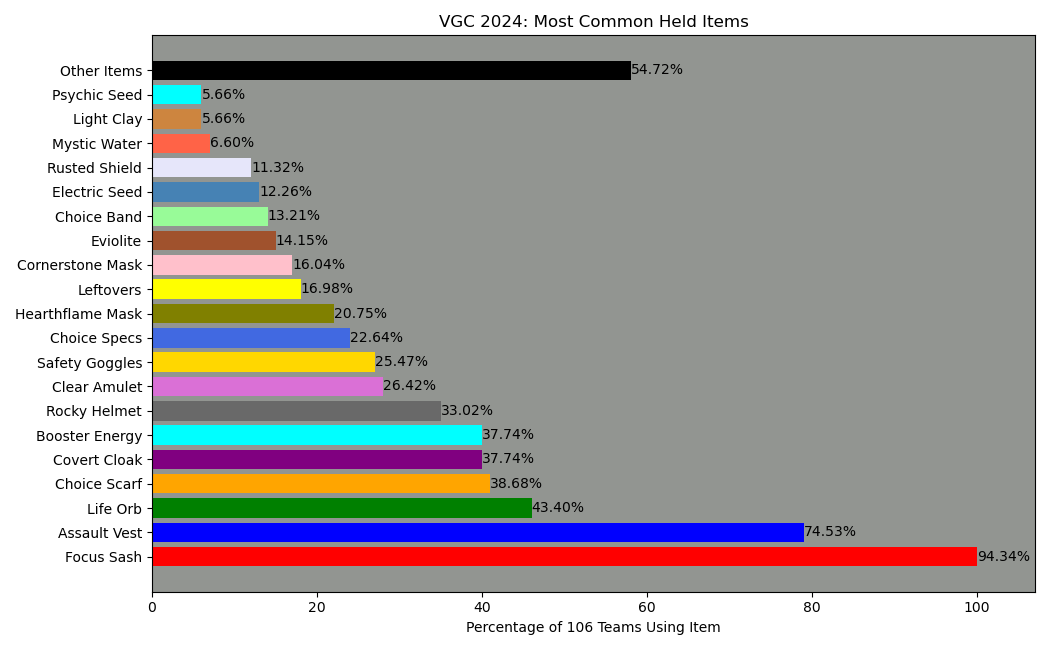
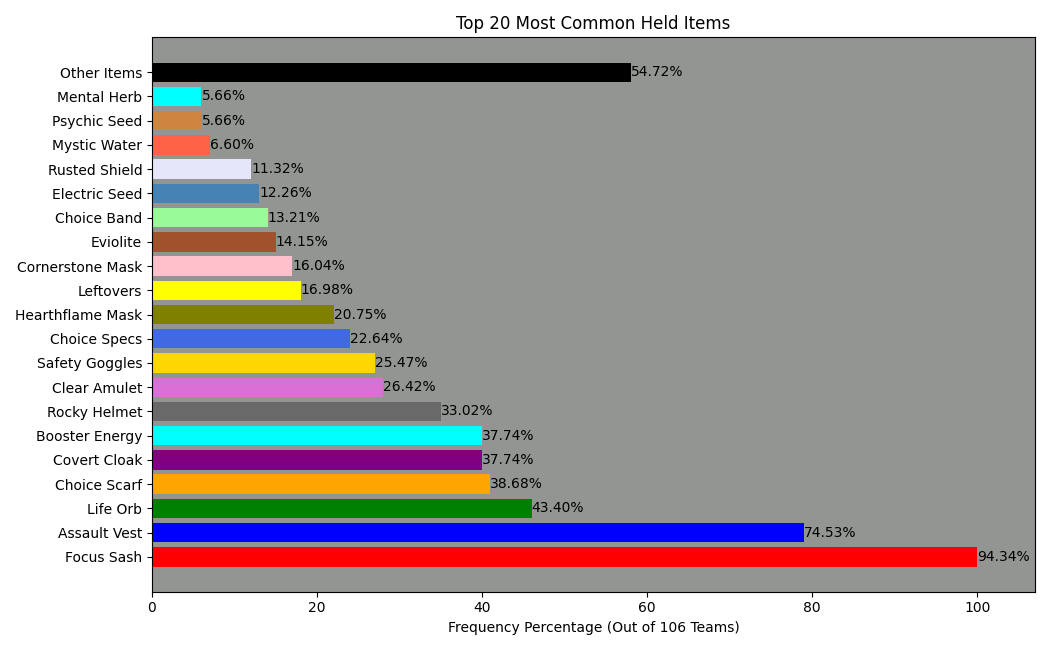
Adjusting Labels on Figures
Adjusted the Labels on Figures. Cleaned up comments.

diff --git a/Python/ConsumeData.py b/Python/ConsumeData.py
@@ -77,58 +77,50 @@ colors26=[
     "grey","orchid","darkgreen","royalblue","wheat","black"
 ]
 
-#Plots#
+#####Plots######
 
-#Best ranking pokemon and number of teams used in
-
+#Highest ranking pokemon and number of teams used in
 fig, ax = plt.subplots()
 patches = ax.scatter(rankingTop20,countTop20,c=colors20)
 ax.set_yticks(np.arange(0, 20, 2))
 ax.set_xticks(np.arange(0, 50, 5))
+ax.set_title('Top 20 Performing Pokemon')
 ax.set_xlabel('Average Ranking')
-ax.set_ylabel('Number of Occurences in 106 Teams')
-ax.set_title('VGC 2024: 20 Most Common Pokemon Performance')
+ax.set_ylabel('Frequency (Out of 106 Teams)')
 ax.set_facecolor('xkcd:grey')
 plt.tight_layout()
 plt.show()
-fig.savefig('../Figures/top20RankingPokemon.png')
+fig.savefig('../Figures/top20Ranking.png')
 
-
-
-#Scatterplot 
+#Average ranking for each unique pokemon
 N = np.size(uniquePokemon)
 colors=np.random.rand(N)
-print(N)
 fig, ax = plt.subplots()
 patches = plt.scatter(ranking,uniquePokemonSeries.index,c=colors, alpha=0.5)
-ax.set_yticks(np.arange(0, 106, 10), label=uniquePokemonSeries.values)
+ax.set_yticks(np.arange(0, 106, 10))
 ax.set_xticks(np.arange(0, 106, 10))
 ax.set_facecolor('xkcd:grey')
-ax.set_xlabel('Average Ranking')
-ax.set_ylabel('Occurances in 106 Teams')
-ax.set_title('VGC 2024: All Pokemon Average Performance')
+ax.set_title('Average Ranking Per Unique Pokemon')
+ax.set_xlabel('Ranking')
+ax.set_ylabel('Frequency')
 plt.tight_layout()
 plt.show()
 fig.savefig('../Figures/avgRankScatter.png')
 
-
-#GOOD#
 #Top 20 Most Common Pokemon - Average Ranking
 series = pd.Series(top20Pokemon.index)
 fig, ax = plt.subplots()
 patches = ax.barh(series, ranking2, align='center', color=colors21)
 ax.set_yticks(series, labels=series)
 ax.invert_yaxis
+ax.set_title('20 Most Common Pokemon Rankings')
 ax.set_facecolor('xkcd:grey')
-ax.set_xlabel('Rank out of 106')
-ax.set_title('VGC 2024: 20 Most Common Pokemon Avg. Rank')
+ax.set_xlabel('Ranking')
 ax.bar_label(patches,ranking2)
 plt.tight_layout()
 plt.show()
 fig.savefig('../Figures/avgRank.png')
 
-
-#GOOD#
 #Most Common Moves
 series=pd.Series(top20Moves.index)
 series2=pd.Series(top20Moves)
@@ -137,8 +129,8 @@ fig.set_size_inches(10.5, 6.5)
 patches = ax.barh(series, series2, align='center', color=colors21)
 ax.set_yticks(series, labels=series)
 ax.invert_yaxis
-ax.set_xlabel('Count for 106 Teams (636 Pokemon)')
-ax.set_title('VGC 2024: Top 20 Most Common Moves')
+ax.set_title('Top 20 Most Common Moves')
+ax.set_xlabel('Frequency (Out of 636 Pokemon)')
 ax.set_facecolor('xkcd:grey')
 ax.legend(patches, top20Moves.index, bbox_to_anchor=(1, 1), fontsize=9)
 ax.bar_label(patches,top20Moves)
@@ -146,8 +138,6 @@ plt.tight_layout()
 plt.show()
 fig.savefig('../Figures/top20moves.png')
 
-
-#Good#
 #Most Common Abilities
 otherAbilities = (countsAbilites.sum() - top25Abilities.sum())
 other = pd.Series([otherAbilities], index=["Other Abilities"])
@@ -156,22 +146,21 @@ series=pd.Series(top25Abilities.index)
 series2=pd.Series(top25Abilities)
 
 fig, ax = plt.subplots()
-fig.set_size_inches(10.5, 10.5)
+fig.set_size_inches(9.5, 9)
 percent = 100.*top25Abilities/top25Abilities.sum()
 labels = ['{0} - {1:1.2f} %'.format(i,j) for i,j in zip(series,percent)]
 patches = ax.bar(series, series2, color=colors26)
 ax.axes.xaxis.set_ticklabels([])
 ax.set_facecolor('xkcd:grey')
+ax.set_title('Top 25 Most Common Abilities')
 ax.set_xlabel("Pokemon Ability")
-ax.set_label("Frequency Out of 616")
-ax.set_title('VGC 2024: Top 25 Most Common Abilities')
+ax.set_ylabel("Frequency (Out of 616)")
 ax.legend(patches, labels, bbox_to_anchor=(1, 1), fontsize=9)
 ax.bar_label(patches,top25Abilities)
 plt.tight_layout()
 fig.savefig('../Figures/top25Abilites.png')
 plt.show()
 
-#Good#
 #Items
 otherItems = (countsItems.sum() - top20Items.sum())
 other = pd.Series([otherItems], index=["Other Items"])
@@ -184,14 +173,13 @@ fig.set_size_inches(10.5, 6.5)
 percent = 100.*top20Items/106
 labels = ['{1:1.2f}%'.format(i,j) for i,j in zip(series,percent)]
 
-
 patches = ax.barh(series, series2, align='center', color=colors21)
 ax.set_yticks(series, labels=series,)
 ax.invert_yaxis
 ax.set_facecolor('xkcd:grey')
-ax.set_xlabel("Percentage of 106 Teams Using Item")
+ax.set_title('Top 20 Most Common Held Items')
+ax.set_xlabel("Frequency Percentage (Out of 106 Teams)")
 ax.set_label("Held Item Name")
-ax.set_title('VGC 2024: Most Common Held Items')
 ax.bar_label(patches,labels)
 plt.xlim(0,107)
 plt.tight_layout()
